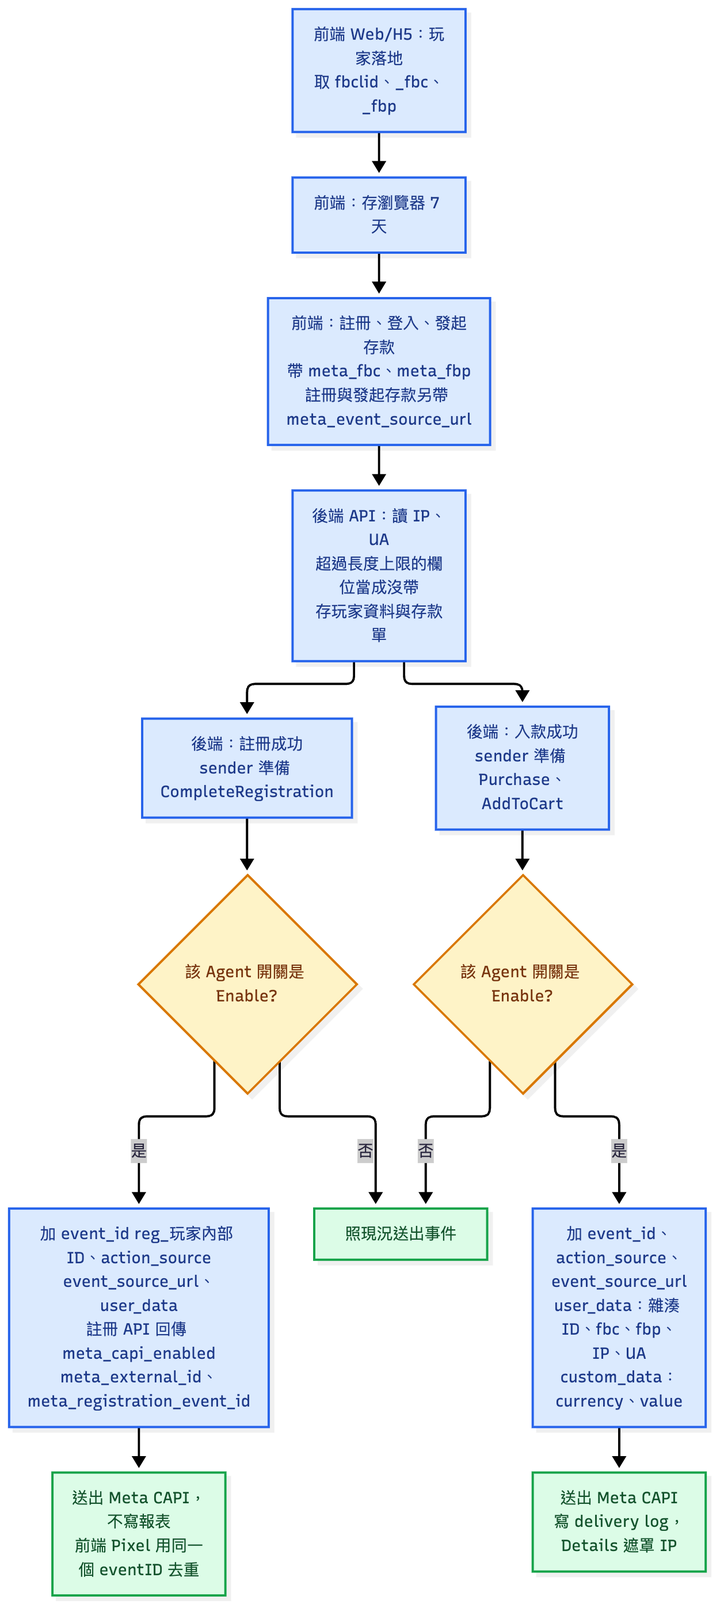
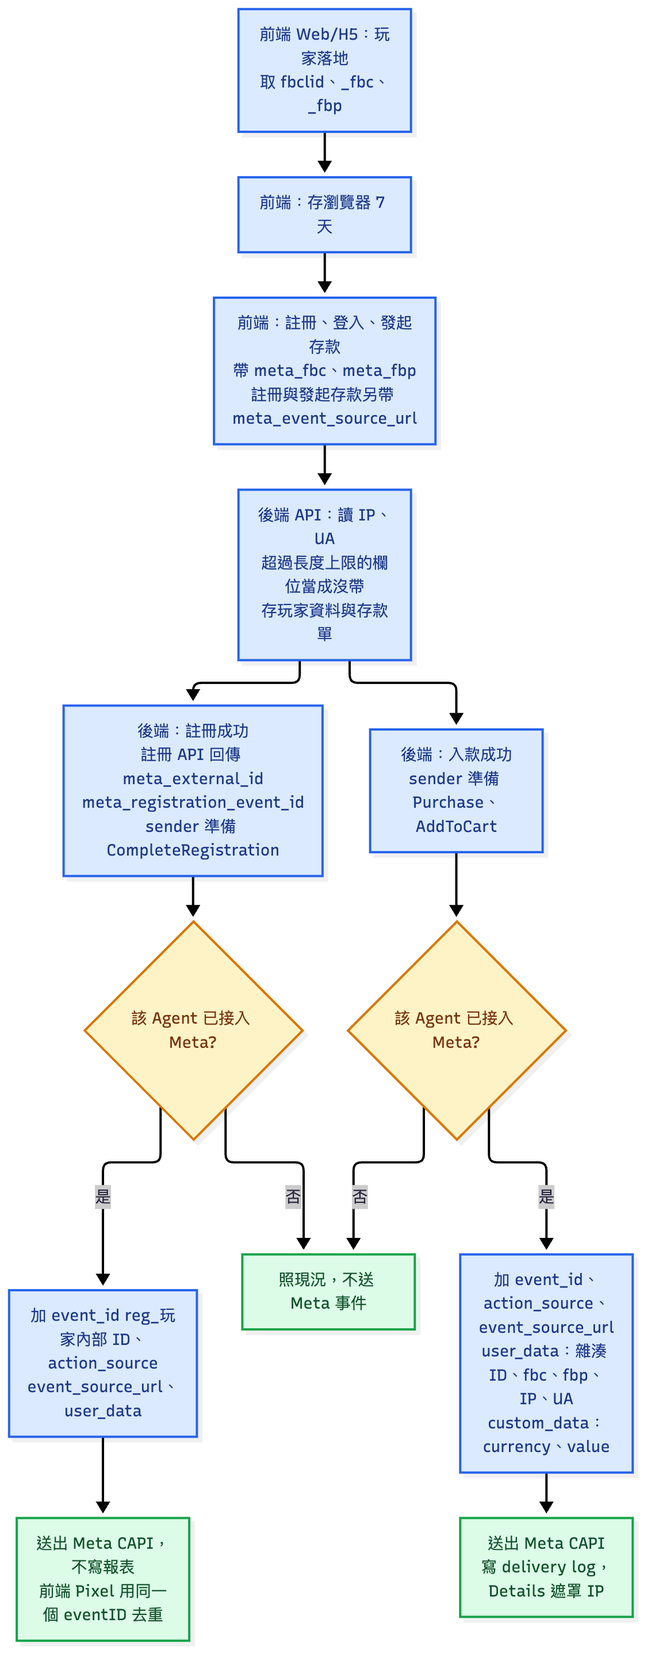
Remove Meta CAPI switch; apply to all Meta-connected agents (PRD v1.3)
Claude-Session: https://claude.ai/code/session_01MerFyJPRGjz7eYnmfumfX2

Changed region(s): [[0.0, 0.0, 0.9894, 0.9986]]

diff --git a/meta-capi-match-params/mockup.html b/meta-capi-match-params/mockup.html
@@ -3,7 +3,7 @@
 <head>
 <meta charset="utf-8">
 <meta name="viewport" content="width=device-width,initial-scale=1">
-<title>Meta CAPI Customer Matching — Mockup</title>
+<title>Meta CAPI Match Params — Mockup</title>
 <style>
 :root{--green:#319b00;--green2:#c7e9cf;--dark:#20252a;--bg:#efefef;--line:#e0e4e7;--muted:#747d85;--note:#fff8d8;--noteb:#efd16b;--notec:#5c4700}
 *{box-sizing:border-box}body{margin:0;background:var(--bg);font:13px Arial,sans-serif;color:#222}
@@ -20,7 +20,6 @@ h1{font-size:21px;margin:0 0 12px}.card{background:#fff;border-radius:6px;paddin
 .btn{border:1px solid #d5dbd5;background:#fff;border-radius:6px;padding:9px 15px;cursor:pointer}.save{background:var(--green);color:#fff;border:0;font-weight:700;min-width:120px}
 .rd{background:var(--note);border:1px dashed var(--noteb);color:var(--notec);border-radius:6px;padding:8px 10px;font-size:12px;line-height:1.6;margin-top:6px}
 .rd b{color:#3d2f00}body.hide-rd .rd{display:none}
-.toast{position:fixed;right:18px;bottom:18px;background:#20252a;color:#fff;padding:10px 14px;border-radius:6px;display:none}.toast.show{display:block}
 table{border-collapse:collapse;width:100%;min-width:900px}th{background:var(--green2);color:#2d7445;padding:11px 12px;text-align:left;white-space:nowrap}td{padding:12px;border-bottom:1px solid #edf0f2;white-space:nowrap}.scroll{overflow:auto}
 .num{text-align:right;font-family:monospace}.pill{padding:4px 9px;border-radius:12px;font-size:11px;font-weight:700;background:#d9f6e2;color:#087a30}.view{border:1px solid #45a92c;color:#318b19;background:#fff;border-radius:5px;padding:5px 9px;cursor:pointer}
 .modal{position:fixed;inset:0;background:#0008;display:none;align-items:center;justify-content:center;padding:18px}.modal.show{display:flex}.box{background:#fff;border-radius:9px;width:min(720px,100%);max-height:90vh;overflow:auto}.mhead{background:var(--green);color:#fff;padding:15px 18px;display:flex;justify-content:space-between;font-weight:700}.mbody{padding:18px}.mbody h3{margin:0 0 8px}
@@ -37,8 +36,7 @@ pre{background:#20252a;color:#d7f7dc;padding:14px;border-radius:6px;overflow:aut
 <div class="shell">
 <aside class="side"><div class="logo">◉ BET<b>ALLY</b></div>
   <div id="menuAdmin">
-  <div class="group active" data-go="agent">Agent-Setting　⌄</div><div class="item" id="mAgent">Agent Accounts</div>
-  <div class="group active" data-go="report">System Report　⌄</div><div class="item" id="mReport" style="background:transparent;color:#bdc4ca">Marketing Event Delivery Report</div>
+  <div class="group active" data-go="report">System Report　⌄</div><div class="item" id="mReport">Marketing Event Delivery Report</div>
   </div>
   <div id="menuAg" style="display:none">
   <div class="group">System Info</div><div class="group">Player Management　›</div>
@@ -50,8 +48,7 @@ pre{background:#20252a;color:#d7f7dc;padding:14px;border-radius:6px;overflow:aut
 <div class="top"><span>17:15, 27 Oct, 2026 · GMT+07:00</span><span id="who">Admin</span></div>
 <div class="content">
   <div class="mockbar"><b>Mockup view：</b>
-    <button class="tab on" id="tAgent">Admin BO · Agent Accounts › Edit</button>
-    <button class="tab" id="tReport">Admin BO · Marketing Event Delivery Report</button>
+    <button class="tab on" id="tReport">Admin BO · Marketing Event Delivery Report</button>
     <button class="tab" id="tReportAg">Agent BO · Marketing Event Delivery Report</button>
     <button class="tab" id="tGloss">名詞與欄位來源（RD 參考）</button>
     <button class="tab" id="tFe">前端任務（RD 參考）</button>
@@ -59,55 +56,28 @@ pre{background:#20252a;color:#d7f7dc;padding:14px;border-radius:6px;overflow:aut
     <label><input type="checkbox" id="rdToggle" checked> RD 註記</label>
     <span>此列只供驗收切換，不屬於正式 BO UI。</span></div>
 
-  <!-- View 1：Agent Accounts › Edit › System Config -->
-  <section class="view-pane on" id="vAgent">
-    <div class="crumb">Agent-Setting › Agent Accounts › Edit</div>
-    <h1>Edit Agent · <span id="agName">AG001</span></h1>
-    <div class="card">
-      <div class="sect">System Config</div>
-      <div class="ghost">⋯⋯ 既有 System Config 欄位（本圖省略）⋯⋯</div>
-      <div class="rd">本頁既有欄位未畫出，畫面只示意新增欄位。新增欄位放在 <b>System Config</b> 區塊內，位置由後端（API）RD 依既有排版決定。</div>
-      <div class="row">
-        <label for="capi">Meta CAPI Customer Matching<span class="pill-new">NEW</span></label>
-        <div>
-          <select id="capi"><option value="DENY">Deny</option><option value="ENABLE" selected>Enable</option></select>
-          <div class="rd">
-            <b>型別</b>：enum <code>Enable</code>／<code>Deny</code>，必填。<b>預設</b>：<code>Deny</code>（新建 Agent 與既有 Agent 上線時都是 <code>Deny</code>）。本畫面示意 AG001 已改成 <code>Enable</code>，與報表頁的示意資料一致。<br>
-            <b>層級</b>：每個 Agent 各自設定。<b>誰能改</b>：沿用本頁既有的編輯權限。<br>
-            Agent BO 不顯示此欄位。<br>Agent BO 帳號直接呼叫設定 API 修改此欄位時，後端不接受。<br>
-            <code>Enable</code>：sender 送出的 <code>Purchase</code>、<code>AddToCart</code>、<code>CompleteRegistration</code> 加比對參數；前台 Pixel 帶 <code>external_id</code>。<br>
-            <code>Deny</code>：sender 送出的事件與現況完全相同；前台 Pixel 不帶 <code>external_id</code>。<br>
-            兩個值下，前端都照常收集比對參數。<br>兩個值下，後端都照常保存比對參數。<br>改成 <code>Enable</code> 後，sender 之後送出的事件使用已保存的值。
-          </div>
-        </div>
-      </div>
-      <div class="ghost">⋯⋯ 既有 System Config 欄位（本圖省略）⋯⋯</div>
-      <div style="text-align:center;margin-top:12px"><button class="btn save" id="save">Save</button></div>
-    </div>
-  </section>
-
-  <!-- View 2：Marketing Event Delivery Report -->
-  <section class="view-pane" id="vReport">
+  <!-- View 1：Marketing Event Delivery Report -->
+  <section class="view-pane on" id="vReport">
     <h1>Marketing Event Delivery Report</h1>
-    <div class="rd">本頁篩選、欄位、匯出都不變；只有 Meta <code>Purchase</code>、<code>AddToCart</code> 的 Details 多出新欄位。下列資料為示意：AG001 開關為 <code>Enable</code>，AG002 為 <code>Deny</code>。</div>
+    <div class="rd">本頁篩選、欄位、匯出都不變；只有 Meta <code>Purchase</code>、<code>AddToCart</code> 的 Details 多出新欄位。下列資料為示意：AG001 已接入 Meta，Web／H5 發起的事件帶新欄位。AG002 已接入 Meta，示意列是 App 發起的存款，事件維持現況。</div>
     <div class="card" style="padding:0;margin-top:10px"><div class="scroll"><table>
       <thead><tr><th>Sent Date</th><th>Prefix</th><th>Username</th><th>Provider</th><th>User Behavior</th><th>Provider Event</th><th>Status</th><th>Amount</th><th>Transaction ID</th><th>Details</th></tr></thead>
       <tbody id="rows"></tbody></table></div></div>
   </section>
 
-  <!-- View 2b：Agent BO 的 Marketing Event Delivery Report -->
+  <!-- View 1b：Agent BO 的 Marketing Event Delivery Report -->
   <section class="view-pane" id="vReportAg">
     <h1>Marketing Event Delivery Report</h1>
     <div style="color:#6b7280;font-size:13px">Agent view · AG001</div>
     <div class="rd">Agent BO 版的篩選、欄位、匯出都不變（不顯示 Prefix 篩選）。後端只回傳登入 Agent 自己的資料，本例只有 AG001 的列。<br>
       Agent BO 與 Admin BO 的 Details 顯示相同的新增欄位。<br>Agent BO 的 Details 同樣把 <code>client_ip_address</code> 顯示為 <code>***</code>。<br>
-      Agent BO 看不到 <code>Meta CAPI Customer Matching</code> 開關，只看得到開關為 <code>Enable</code> 時送出的新增欄位。</div>
+      本案不新增 Agent BO 設定畫面。</div>
     <div class="card" style="padding:0;margin-top:10px"><div class="scroll"><table>
       <thead><tr><th>Sent Date</th><th>Prefix</th><th>Username</th><th>Provider</th><th>User Behavior</th><th>Provider Event</th><th>Status</th><th>Amount</th><th>Transaction ID</th><th>Details</th></tr></thead>
       <tbody id="rowsAg"></tbody></table></div></div>
   </section>
 
-  <!-- View 3：名詞與欄位來源（RD 參考頁，不屬於正式 BO UI） -->
+  <!-- View 2：名詞與欄位來源（RD 參考頁，不屬於正式 BO UI） -->
   <section class="view-pane gloss" id="vGloss">
     <h1>名詞與欄位來源</h1>
     <div class="note-top">本頁是給 RD 的參考說明，不屬於正式 BO 畫面。</div>
@@ -119,7 +89,7 @@ pre{background:#20252a;color:#d7f7dc;padding:14px;border-radius:6px;overflow:aut
         <tbody>
           <tr><td>Meta Pixel</td><td>裝在前台網頁的 Meta 追蹤程式碼</td><td>從瀏覽器把事件送給 Meta</td></tr>
           <tr><td>CAPI（Conversions API）</td><td>後端呼叫的 Meta API</td><td>從伺服器把事件送給 Meta</td></tr>
-          <tr><td>前台網域</td><td>BA032 玩家使用的前台網站網域，有多個且會變動</td><td>前端不寫死前台網域</td></tr>
+          <tr><td>前台網域</td><td>玩家使用的前台網站網域。一個 Agent 可以有多個，而且會變動</td><td>前端不寫死前台網域</td></tr>
           <tr><td>PWA 網域</td><td>玩家安裝的 PWA 所在網域</td><td>廣告點擊經 tracker link 從這裡轉到前台網域</td></tr>
           <tr><td>sender</td><td>後端送出 CAPI 事件的程式</td><td>入款成功、註冊成功時組 payload 並送出</td></tr>
           <tr><td><code>fbclid</code></td><td>玩家點 Facebook 廣告時，Meta 加在網址上的參數，例如 <code>?fbclid=IwAR2xYz</code></td><td>代表一次廣告點擊</td></tr>
@@ -131,20 +101,17 @@ pre{background:#20252a;color:#d7f7dc;padding:14px;border-radius:6px;overflow:aut
           <tr><td><code>client_user_agent</code></td><td>玩家瀏覽器的 User-Agent</td><td>Meta 用它輔助比對玩家</td></tr>
           <tr><td><code>event_source_url</code></td><td>事件發生時玩家所在頁面的完整網址</td><td>Meta 用它判斷事件發生的頁面。本案沒有值時，sender 不帶這個欄位，事件照送</td></tr>
           <tr><td><code>event_id</code></td><td>事件的唯一編號</td><td>Pixel 與 CAPI 送同一事件時，Meta 用它去重</td></tr>
-          <tr><td><code>action_source</code></td><td>事件發生的來源</td><td>Meta 用它區分網站、App 等來源。本案開關 <code>Enable</code> 時，sender 送 <code>website</code></td></tr>
+          <tr><td><code>action_source</code></td><td>事件發生的來源</td><td>Meta 用它區分網站、App 等來源。本案 Web／H5 發起的事件，sender 送 <code>website</code></td></tr>
           <tr><td>比對參數</td><td><code>fbc</code>、<code>fbp</code>、<code>client_ip_address</code>、<code>client_user_agent</code> 四個欄位的合稱</td><td>sender 放進 <code>user_data</code></td></tr>
           <tr><td><code>meta_match</code></td><td>前端存在 <code>localStorage</code> 的 key</td><td>保存 <code>fbc</code>、<code>fbp</code>，期限 7 天</td></tr>
+          <tr><td>已接入 Meta 的 Agent</td><td>Agent BO <code>System Config</code> 已設定 <code>Meta Access Token</code> 的 Agent</td><td>sender 只對這些 Agent 送 Meta 事件。本案套用到所有已接入 Meta 的 Agent</td></tr>
         </tbody></table></div>
     </div>
 
     <div class="card">
       <div class="sect">2. BO 欄位表：每個欄位怎麼取得</div>
-      <h3 class="gh">2.1 Admin BO 設定</h3>
-      <div class="scroll"><table class="gt">
-        <thead><tr><th>欄位</th><th>怎麼取得</th><th>負責端</th></tr></thead>
-        <tbody>
-          <tr><td><code>Meta CAPI Customer Matching</code></td><td>Admin 在 <code>Agent Accounts › Edit › System Config</code> 選 <code>Enable</code> 或 <code>Deny</code>。預設 <code>Deny</code></td><td>後端（API）</td></tr>
-        </tbody></table></div>
+      <h3 class="gh">2.1 BO 設定</h3>
+      <div class="gnote">本案不新增設定欄位。Admin BO 與 Agent BO 的設定畫面都不變。</div>
 
       <h3 class="gh">2.2 前端送給後端的 request 欄位</h3>
       <div class="scroll"><table class="gt">
@@ -179,7 +146,7 @@ pre{background:#20252a;color:#d7f7dc;padding:14px;border-radius:6px;overflow:aut
         前端照原樣使用 <code>fbclid</code>，不改大小寫，除了 URL decode 不做其他處理。<br>
         前端不自行產生 <code>fbp</code>。<br>
         <code>localStorage</code> 無法讀寫時，前端把結果存在本頁記憶體。<br>
-        BA032 有多個前台網域，而且會變動。前端不寫死前台網域。<br>
+        一個 Agent 可以有多個前台網域，而且會變動。前端不寫死前台網域。<br>
         前端在當下頁面的 origin 讀寫 <code>meta_match</code>。<br>
         前端從當下頁面的 <code>document.cookie</code> 讀取 <code>_fbc</code>、<code>_fbp</code> cookie。<br>
         前端不另外讀取 PWA 網域與 tracker link 網域上的 cookie。<br>
@@ -217,9 +184,8 @@ pre{background:#20252a;color:#d7f7dc;padding:14px;border-radius:6px;overflow:aut
       <div class="scroll"><table class="gt">
         <thead><tr><th>欄位</th><th>型別</th><th>必填</th><th>怎麼取得</th><th>哪些 API 回傳</th><th>前端用途</th></tr></thead>
         <tbody>
-          <tr><td><code>meta_capi_enabled</code></td><td>boolean</td><td>是</td><td>後端查玩家所屬 Agent 的開關。<code>Enable</code> 時為 <code>true</code>，<code>Deny</code> 時為 <code>false</code></td><td>玩家資料、登入、註冊</td><td>前端用它決定 Pixel 帶不帶 <code>external_id</code>。註冊時，前端也用它決定 Pixel <code>CompleteRegistration</code> 是否帶 <code>eventID</code> 去重</td></tr>
-          <tr><td><code>meta_external_id</code></td><td>string，64 字小寫 16 進位</td><td>否</td><td>後端把玩家內部 ID 做 SHA-256，輸出小寫 16 進位字串。開關 <code>Deny</code> 時不回傳</td><td>玩家資料、登入、註冊</td><td>Pixel 帶上與 CAPI 相同的 <code>external_id</code>。前端不自行雜湊</td></tr>
-          <tr><td><code>meta_registration_event_id</code></td><td>string，格式 <code>reg_&lt;玩家內部 ID&gt;</code></td><td>否</td><td>後端組成 <code>reg_&lt;玩家內部 ID&gt;</code>。開關 <code>Deny</code> 時不回傳</td><td>註冊</td><td>當作 Pixel <code>CompleteRegistration</code> 的 <code>eventID</code>，與後端 CAPI 事件去重</td></tr>
+          <tr><td><code>meta_external_id</code></td><td>string，64 字小寫 16 進位</td><td>是</td><td>後端把玩家內部 ID 做 SHA-256，輸出小寫 16 進位字串。一律回傳</td><td>玩家資料、登入、註冊</td><td>Pixel 帶上與 CAPI 相同的 <code>external_id</code>。前端不自行雜湊</td></tr>
+          <tr><td><code>meta_registration_event_id</code></td><td>string，格式 <code>reg_&lt;玩家內部 ID&gt;</code></td><td>是</td><td>後端組成 <code>reg_&lt;玩家內部 ID&gt;</code>。註冊成功時一律回傳</td><td>註冊</td><td>當作 Pixel <code>CompleteRegistration</code> 的 <code>eventID</code>，與後端 CAPI 事件去重</td></tr>
         </tbody></table></div>
     </div>
 
@@ -231,10 +197,10 @@ pre{background:#20252a;color:#d7f7dc;padding:14px;border-radius:6px;overflow:aut
         <li>玩家發起存款。前端帶 <code>meta_fbc</code>、<code>meta_fbp</code>、<code>meta_event_source_url</code>。</li>
         <li>後端從 request 讀取 IP 與 User-Agent。</li>
         <li>後端把 <code>fbc</code>、<code>fbp</code>、IP、User-Agent、<code>event_source_url</code> 記在存款單上。</li>
-        <li>入款成功。開關 <code>Deny</code> 時，sender 送出的事件與現況完全相同，流程結束。</li>
-        <li>開關 <code>Enable</code> 時，sender 照下表取值，加進 CAPI payload 後送出事件。</li>
-        <li>開關 <code>Enable</code> 時，<code>Marketing Event Delivery Report</code> 的 Details 顯示 sender 實際送出的新增欄位。sender 沒有帶的欄位，Details 不顯示。</li>
-        <li>開關 <code>Enable</code> 時，後端把 <code>client_ip_address</code> 加進遮罩清單。Details 把 <code>client_ip_address</code> 顯示為 <code>***</code>。</li>
+        <li>入款成功。Agent 沒有接入 Meta 時，sender 照現況不送 Meta 事件，流程結束。</li>
+        <li>Agent 已接入 Meta 時，sender 照下表取值，加進 CAPI payload 後送出事件。</li>
+        <li><code>Marketing Event Delivery Report</code> 的 Details 顯示 sender 實際送出的新增欄位。sender 沒有帶的欄位，Details 不顯示。</li>
+        <li>後端把 <code>client_ip_address</code> 加進遮罩清單。Details 把 <code>client_ip_address</code> 顯示為 <code>***</code>。</li>
       </ol>
       <div class="scroll"><table class="gt" style="margin-top:10px">
         <thead><tr><th>CAPI 欄位</th><th>值</th><th>取值順序</th></tr></thead>
@@ -251,7 +217,7 @@ pre{background:#20252a;color:#d7f7dc;padding:14px;border-radius:6px;overflow:aut
     </div>
   </section>
 
-  <!-- View 4：前端任務（RD 參考頁，不屬於正式 BO UI） -->
+  <!-- View 3：前端任務（RD 參考頁，不屬於正式 BO UI） -->
   <section class="view-pane gloss" id="vFe">
     <h1>前端任務：Web/H5</h1>
     <div class="note-top">本頁列出前端（Web/H5）RD 的全部任務，不屬於正式 BO 畫面。欄位定義見「名詞與欄位來源」頁。</div>
@@ -297,7 +263,7 @@ pre{background:#20252a;color:#d7f7dc;padding:14px;border-radius:6px;overflow:aut
           <tr><td>F6</td><td>前端組 request 前再檢查一次 <code>ts</code>。已過期的參數，前端不帶。</td></tr>
           <tr><td>F7</td><td><code>meta_match</code> 沒有某個值時，前端不帶該欄位，不送空字串。</td></tr>
           <tr><td>F8</td><td>註冊與發起存款時，前端把 <code>meta_event_source_url</code> 設為玩家當下所在頁面的完整網址。</td></tr>
-          <tr><td>F9</td><td>不論開關是 <code>Enable</code> 或 <code>Deny</code>，前端都照本節送出。</td></tr>
+          <tr><td>F9</td><td>不論 Agent 是否已接入 Meta，前端都照本節送出。</td></tr>
           <tr><td>F10</td><td>前端不送 IP 與 User-Agent。</td></tr>
         </tbody></table></div>
     </div>
@@ -307,17 +273,16 @@ pre{background:#20252a;color:#d7f7dc;padding:14px;border-radius:6px;overflow:aut
       <div class="scroll"><table class="gt">
         <thead><tr><th>情境</th><th>前端對 Pixel 使用者資料的動作</th></tr></thead>
         <tbody>
-          <tr><td>API 回傳 <code>meta_capi_enabled</code> 為 <code>true</code></td><td>設為該回傳的 <code>meta_external_id</code></td></tr>
-          <tr><td>API 回傳 <code>meta_capi_enabled</code> 為 <code>false</code></td><td>移除 <code>external_id</code></td></tr>
+          <tr><td>API 回傳 <code>meta_external_id</code></td><td>設為該回傳的 <code>meta_external_id</code></td></tr>
           <tr><td>登出</td><td>移除 <code>external_id</code></td></tr>
-          <tr><td>換成另一位玩家登入</td><td>依該玩家的登入回傳，照第一、二列處理</td></tr>
+          <tr><td>換成另一位玩家登入</td><td>設為該玩家登入回傳的 <code>meta_external_id</code></td></tr>
         </tbody></table></div>
       <div class="scroll"><table class="gt">
         <thead><tr><th>#</th><th>任務</th></tr></thead>
         <tbody>
-          <tr><td>F11</td><td>玩家已登入且 <code>meta_capi_enabled</code> 為 <code>true</code> 時，前端初始化 Pixel 帶上 <code>external_id</code>，值為 <code>meta_external_id</code>。</td></tr>
+          <tr><td>F11</td><td>玩家已登入時，前端初始化 Pixel 帶上 <code>external_id</code>，值為 <code>meta_external_id</code>。</td></tr>
           <tr><td>F12</td><td>玩家未登入時，前端初始化 Pixel 不帶 <code>external_id</code>。</td></tr>
-          <tr><td>F13</td><td><code>meta_capi_enabled</code> 為 <code>false</code> 時，前端初始化 Pixel 不帶 <code>external_id</code>。</td></tr>
+          <tr><td>F13</td><td><code>external_id</code> 的值來自 API 回傳的 <code>meta_external_id</code>。</td></tr>
           <tr><td>F14</td><td>上表的 API 指登入、註冊、玩家資料三支 API。</td></tr>
           <tr><td>F15</td><td>F11 到 F13 與上表適用於 <code>PageView</code>、<code>CompleteRegistration</code>、<code>Lead</code> 三個 Pixel 事件。</td></tr>
           <tr><td>F16</td><td>前端不自行雜湊 <code>external_id</code>。</td></tr>
@@ -330,29 +295,27 @@ pre{background:#20252a;color:#d7f7dc;padding:14px;border-radius:6px;overflow:aut
     <div class="card">
       <div class="sect">5. Pixel <code>CompleteRegistration</code> 去重</div>
       <ol class="flow">
-        <li>註冊成功時，前端讀取註冊 API 回傳的 <code>meta_capi_enabled</code>。</li>
-        <li><code>meta_capi_enabled</code> 為 <code>false</code> 時，前端照現況送 Pixel <code>CompleteRegistration</code>，流程結束。</li>
-        <li><code>meta_capi_enabled</code> 為 <code>true</code> 時，前端用回傳的 <code>meta_external_id</code> 更新 Pixel 使用者資料。</li>
+        <li>註冊成功時，前端用註冊 API 回傳的 <code>meta_external_id</code> 更新 Pixel 使用者資料。</li>
         <li>前端送 Pixel <code>CompleteRegistration</code>，<code>eventID</code> 用回傳的 <code>meta_registration_event_id</code>。</li>
       </ol>
       <div class="gnote">前端只送一次 Pixel <code>CompleteRegistration</code>。後端用同一個 <code>event_id</code>，Meta 以此去重。</div>
     </div>
   </section>
 
-  <!-- View 5：後端任務（RD 參考頁，不屬於正式 BO UI） -->
+  <!-- View 4：後端任務（RD 參考頁，不屬於正式 BO UI） -->
   <section class="view-pane gloss" id="vBe">
     <h1>後端任務：API</h1>
     <div class="note-top">本頁列出後端（API）RD 的全部任務，不屬於正式 BO 畫面。欄位定義見「名詞與欄位來源」頁。</div>
 
     <div class="card">
-      <div class="sect">1. 開關</div>
+      <div class="sect">1. 適用範圍</div>
       <div class="scroll"><table class="gt">
         <thead><tr><th>#</th><th>任務</th></tr></thead>
         <tbody>
-          <tr><td>B1</td><td>後端在 Agent 設定新增欄位 <code>Meta CAPI Customer Matching</code>，值為 <code>Enable</code>、<code>Deny</code>，預設 <code>Deny</code>。</td></tr>
-          <tr><td>B2</td><td>Admin BO <code>Agent Accounts</code> › <code>Edit</code> › <code>System Config</code> 新增開關畫面。畫面見「Admin BO · Agent Accounts › Edit」分頁。</td></tr>
-          <tr><td>B3</td><td>Agent BO 不顯示這個開關。</td></tr>
-          <tr><td>B4</td><td>Agent BO 帳號呼叫設定 API 修改這個開關時，後端不接受。</td></tr>
+          <tr><td>B1</td><td>所有已接入 Meta 的 Agent 都套用本頁任務，不限 BA032。</td></tr>
+          <tr><td>B2</td><td>Agent 沒有接入 Meta 時，sender 照現況不送 Meta 事件。</td></tr>
+          <tr><td>B3</td><td>本案不新增設定欄位。Admin BO 與 Agent BO 的設定畫面都不變。</td></tr>
+          <tr><td>B4</td><td>Agent 之後才接入 Meta 時，sender 送出的事件使用已保存的比對參數。</td></tr>
         </tbody></table></div>
     </div>
 
@@ -398,7 +361,7 @@ pre{background:#20252a;color:#d7f7dc;padding:14px;border-radius:6px;overflow:aut
           <tr><td><code>event_source_url</code></td><td><code>VARCHAR(2048)</code></td><td><code>meta_event_source_url</code></td></tr>
         </tbody></table></div>
       <div class="gnote">request 沒有某個值時，存款單的該欄位為 NULL。欄位名稱由後端 RD 依既有命名決定；型別照上表。<br>
-        不論開關是 <code>Enable</code> 或 <code>Deny</code>，後端都保存比對參數。</div>
+        不論 Agent 是否已接入 Meta，後端都保存比對參數。</div>
     </div>
 
     <div class="card">
@@ -406,18 +369,17 @@ pre{background:#20252a;color:#d7f7dc;padding:14px;border-radius:6px;overflow:aut
       <div class="scroll"><table class="gt">
         <thead><tr><th>欄位</th><th>型別</th><th>玩家資料</th><th>登入成功</th><th>註冊成功</th></tr></thead>
         <tbody>
-          <tr><td><code>meta_capi_enabled</code></td><td>boolean</td><td>一律回</td><td>一律回</td><td>一律回</td></tr>
-          <tr><td><code>meta_external_id</code></td><td>string</td><td>開關 <code>Enable</code> 時回</td><td>開關 <code>Enable</code> 時回</td><td>開關 <code>Enable</code> 時回</td></tr>
-          <tr><td><code>meta_registration_event_id</code></td><td>string</td><td>不回</td><td>不回</td><td>開關 <code>Enable</code> 時回</td></tr>
+          <tr><td><code>meta_external_id</code></td><td>string</td><td>一律回</td><td>一律回</td><td>一律回</td></tr>
+          <tr><td><code>meta_registration_event_id</code></td><td>string</td><td>不回</td><td>不回</td><td>一律回</td></tr>
         </tbody></table></div>
       <div class="scroll"><table class="gt">
         <thead><tr><th>#</th><th>任務</th></tr></thead>
         <tbody>
-          <tr><td>B10</td><td>玩家所屬 Agent 的開關為 <code>Enable</code> 時，後端回傳 <code>meta_capi_enabled</code> 為 <code>true</code>。開關為 <code>Deny</code> 時，後端回傳 <code>meta_capi_enabled</code> 為 <code>false</code>。</td></tr>
-          <tr><td>B11</td><td><code>meta_capi_enabled</code> 為 <code>false</code> 時，後端不回傳 <code>meta_external_id</code> 與 <code>meta_registration_event_id</code>。</td></tr>
+          <tr><td>B10</td><td>玩家資料、登入成功、註冊成功的 response 一律回傳 <code>meta_external_id</code>。</td></tr>
+          <tr><td>B11</td><td>不論 Agent 是否已接入 Meta，後端都回傳上表欄位。</td></tr>
           <tr><td>B12</td><td><code>meta_external_id</code> 是雜湊 ID：玩家內部 ID 的字串形式算 SHA-256，輸出小寫 16 進位字串。</td></tr>
           <tr><td>B13</td><td>後端在 sender 與各 API 使用同一個雜湊 ID 計算方式。</td></tr>
-          <tr><td>B14</td><td>開關為 <code>Enable</code> 且註冊成功時，後端回傳 <code>meta_registration_event_id</code>，值為 <code>reg_&lt;玩家內部 ID&gt;</code>。</td></tr>
+          <tr><td>B14</td><td>註冊成功時，後端回傳 <code>meta_registration_event_id</code>，值為 <code>reg_&lt;玩家內部 ID&gt;</code>。</td></tr>
         </tbody></table></div>
     </div>
 
@@ -426,8 +388,8 @@ pre{background:#20252a;color:#d7f7dc;padding:14px;border-radius:6px;overflow:aut
       <div class="scroll"><table class="gt">
         <thead><tr><th>#</th><th>任務</th></tr></thead>
         <tbody>
-          <tr><td>B15</td><td>開關為 <code>Deny</code> 時，sender 送出的事件與現況完全相同。</td></tr>
-          <tr><td>B16</td><td>開關為 <code>Enable</code> 時，sender 在 Web／H5 發起的 <code>Purchase</code>、<code>AddToCart</code>、<code>CompleteRegistration</code> 加上新增欄位。開關為 <code>Enable</code> 時，sender 對 App 發起的事件維持現況。</td></tr>
+          <tr><td>B15</td><td>sender 對 App 發起的事件維持現況。</td></tr>
+          <tr><td>B16</td><td>Agent 已接入 Meta 時，sender 在 Web／H5 發起的 <code>Purchase</code>、<code>AddToCart</code>、<code>CompleteRegistration</code> 加上新增欄位。</td></tr>
           <tr><td>B17</td><td>以下適用 <code>Purchase</code>、<code>AddToCart</code> 的 <code>fbc</code>、<code>fbp</code>、<code>client_ip_address</code>、<code>client_user_agent</code>。存款單的該欄位有值時，sender 使用存款單的值。存款單的該欄位沒有值時，sender 使用玩家資料的值。</td></tr>
           <tr><td>B18</td><td>sender 組 <code>Purchase</code>、<code>AddToCart</code> 的 <code>event_source_url</code> 時，只取存款單的值。</td></tr>
           <tr><td>B19</td><td>sender 不在 <code>CompleteRegistration</code> 帶 <code>custom_data.currency</code>、<code>custom_data.value</code>。</td></tr>
@@ -455,7 +417,7 @@ pre{background:#20252a;color:#d7f7dc;padding:14px;border-radius:6px;overflow:aut
       <div class="scroll"><table class="gt">
         <thead><tr><th>#</th><th>任務</th></tr></thead>
         <tbody>
-          <tr><td>B24</td><td>開關為 <code>Enable</code> 時，<code>Purchase</code>、<code>AddToCart</code> 的 Details 顯示 sender 實際送出的新增欄位。開關為 <code>Enable</code> 且 sender 沒有帶某個欄位時，Details 不顯示該欄位。</td></tr>
+          <tr><td>B24</td><td><code>Purchase</code>、<code>AddToCart</code> 的 Details 顯示 sender 實際送出的新增欄位。sender 沒有帶某個欄位時，Details 不顯示該欄位。</td></tr>
           <tr><td>B25</td><td>後端把 <code>client_ip_address</code> 加進遮罩清單。Details 把 <code>client_ip_address</code> 顯示為 <code>***</code>。</td></tr>
           <tr><td>B26</td><td>Details 把 <code>external_id</code> 顯示為雜湊 ID。Details 把 <code>fbc</code>、<code>fbp</code>、<code>client_user_agent</code>、<code>event_source_url</code> 顯示原值。</td></tr>
           <tr><td>B27</td><td>Agent BO 與 Admin BO 的 Details 顯示相同。</td></tr>
@@ -473,7 +435,6 @@ pre{background:#20252a;color:#d7f7dc;padding:14px;border-radius:6px;overflow:aut
 </div>
 
 <div class="modal" id="modal"><div class="box"><div class="mhead"><span>Event Delivery Details</span><button class="btn" id="x">✕</button></div><div class="mbody" id="detail"></div><div class="mfoot"><button class="btn save" id="close">Close</button></div></div></div>
-<div class="toast" id="toast">Saved.</div>
 
 <script>
 const $=id=>document.getElementById(id);
@@ -482,15 +443,15 @@ const H3='6fe158d6ce513b111fa958f1cfa9537b7391792091058bf48e1169c7724bb4ac'; // 
[1 lines of base64/hex data omitted]
 const UA='Mozilla/5.0 (Linux; Android 14) AppleWebKit/537.36 Chrome/129.0 Mobile Safari/537.36';
 const data=[
- {date:'27/10/2026 15:42:18',prefix:'AG001',user:'demo_user01',behavior:'First Deposit',event:'Purchase',amount:'100.10',tx:'DEP261027000108',enabled:true,
+ {date:'27/10/2026 15:42:18',prefix:'AG001',user:'demo_user01',behavior:'First Deposit',event:'Purchase',amount:'100.10',tx:'DEP261027000108',
   props:{Username:'demo_user01',Amount:'100.10',Currency:'THB',Date:'2026-10-27 15:42:18',access_token:'***',
    event_id:'ftd_DEP261027000108',action_source:'website',event_source_url:'https://<前台網域>/deposit',external_id:H,
    fbc:'fb.1.1793070230123.AbC1',fbp:'fb.1.1793070100456.1234567890',client_ip_address:'***',client_user_agent:UA,currency:'THB',value:100.1}},
- {date:'27/10/2026 15:36:40',prefix:'AG001',user:'demo_user03',behavior:'Deposit',event:'AddToCart',amount:'500.00',tx:'DEP261027000105',enabled:true,
+ {date:'27/10/2026 15:36:40',prefix:'AG001',user:'demo_user03',behavior:'Deposit',event:'AddToCart',amount:'500.00',tx:'DEP261027000105',
   props:{Username:'demo_user03',Amount:'500.00',Currency:'THB',Date:'2026-10-27 15:36:40',access_token:'***',
    event_id:'dep_DEP261027000105',action_source:'website',event_source_url:'https://<前台網域>/deposit',external_id:H3,
    fbp:'fb.1.1793069500789.9876543210',client_ip_address:'***',client_user_agent:UA,currency:'THB',value:500}},
- {date:'27/10/2026 15:30:02',prefix:'AG002',user:'demo_user02',behavior:'Deposit',event:'AddToCart',amount:'250.00',tx:'DEP261027000102',enabled:false,
+ {date:'27/10/2026 15:30:02',prefix:'AG002',user:'demo_user02',behavior:'Deposit',app:true,event:'AddToCart',amount:'250.00',tx:'DEP261027000102',
   props:{Username:'demo_user02',Amount:'250.00',Currency:'THB',Date:'2026-10-27 15:30:02',access_token:'***'}}
 ];
 const NEW=['event_id','action_source','event_source_url','external_id','fbc','fbp','client_ip_address','client_user_agent','currency','value'];
@@ -501,25 +462,24 @@ function render(){$('rows').innerHTML=data.map(row).join('');
  document.querySelectorAll('.view').forEach(b=>b.onclick=()=>detail(+b.dataset.i))}
 function detail(i){const r=data[i];
  const lines=Object.entries(r.props).map(([k,v])=>{const t=`  "${k}": ${JSON.stringify(v)}`;return NEW.includes(k)?`<span class="nw">${esc(t)}</span>`:esc(t)});
- const note=r.enabled?
+ const note=!r.app?
   `<div class="rd">藍字是本案新增欄位（示意用色，正式畫面照既有樣式顯示，不另上色）。<br>
    <b>client_ip_address</b>：後端加進遮罩清單，一律顯示 <code>***</code>；送給 Meta 的值是原值。<br>
    <b>external_id</b>：顯示雜湊 ID（玩家內部 ID 的 SHA-256 小寫 16 進位字串）。<b>fbc</b>、<b>fbp</b>、<b>client_user_agent</b>、<b>event_source_url</b> 顯示原值，不可雜湊。<br>
    <b>value</b>：由 <code>DECIMAL(18,2)</code> 的入款金額轉成 JSON 數字，不經 float；這筆入款 ${r.amount}，送出 <code>${r.props.value}</code>。<br>
    存款單與玩家資料都沒有某個值時，sender 不帶該欄位，Details 也不顯示${r.props.fbc?'':'（這筆沒有 <code>fbc</code>）'}。</div>`:
-  `<div class="rd">AG002 開關為 <code>Deny</code>：sender 送出的事件與現況完全相同，Details 不出現新欄位。</div>`;
+  `<div class="rd">這筆是 App 發起的存款：sender 送出的事件與現況完全相同，Details 不出現新欄位。</div>`;
  $('detail').innerHTML=`<h3>Request Properties (Sensitive values masked)</h3><pre>{\n${lines.join(',\n')}\n}</pre>${note}`;
  $('modal').classList.add('show')}
 function close(){$('modal').classList.remove('show')}
-function go(v){const a=v==='agent',r=v==='report',ra=v==='reportAg',g=v==='gloss',fe=v==='fe',be=v==='be';
- $('vAgent').classList.toggle('on',a);$('vReport').classList.toggle('on',r);$('vReportAg').classList.toggle('on',ra);$('vGloss').classList.toggle('on',g);$('vFe').classList.toggle('on',fe);$('vBe').classList.toggle('on',be);
- $('tAgent').classList.toggle('on',a);$('tReport').classList.toggle('on',r);$('tReportAg').classList.toggle('on',ra);$('tGloss').classList.toggle('on',g);$('tFe').classList.toggle('on',fe);$('tBe').classList.toggle('on',be);
+function go(v){const r=v==='report',ra=v==='reportAg',g=v==='gloss',fe=v==='fe',be=v==='be';
+ $('vReport').classList.toggle('on',r);$('vReportAg').classList.toggle('on',ra);$('vGloss').classList.toggle('on',g);$('vFe').classList.toggle('on',fe);$('vBe').classList.toggle('on',be);
+ $('tReport').classList.toggle('on',r);$('tReportAg').classList.toggle('on',ra);$('tGloss').classList.toggle('on',g);$('tFe').classList.toggle('on',fe);$('tBe').classList.toggle('on',be);
  if(g||fe||be)return; // RD 參考頁不切換身分與側欄
  $('menuAdmin').style.display=ra?'none':'';$('menuAg').style.display=ra?'':'none';$('who').textContent=ra?'AG001':'Admin';
- $('mAgent').style.background=a?'#35aa00':'transparent';$('mAgent').style.color=a?'#fff':'#bdc4ca';$('mReport').style.background=r?'#35aa00':'transparent';$('mReport').style.color=r?'#fff':'#bdc4ca'}
-$('tAgent').onclick=()=>go('agent');$('tReport').onclick=()=>go('report');$('tReportAg').onclick=()=>go('reportAg');$('tGloss').onclick=()=>go('gloss');$('tFe').onclick=()=>go('fe');$('tBe').onclick=()=>go('be');$('mAgent').onclick=()=>go('agent');$('mReport').onclick=()=>go('report');
+ $('mReport').style.background=r?'#35aa00':'transparent';$('mReport').style.color=r?'#fff':'#bdc4ca'}
+$('tReport').onclick=()=>go('report');$('tReportAg').onclick=()=>go('reportAg');$('tGloss').onclick=()=>go('gloss');$('tFe').onclick=()=>go('fe');$('tBe').onclick=()=>go('be');$('mReport').onclick=()=>go('report');
 $('rdToggle').onchange=e=>document.body.classList.toggle('hide-rd',!e.target.checked);
-$('save').onclick=()=>{$('toast').classList.add('show');setTimeout(()=>$('toast').classList.remove('show'),1500)};
 $('x').onclick=close;$('close').onclick=close;$('modal').onclick=e=>{if(e.target===$('modal'))close()};
 render();
 </script>

diff --git a/meta-capi-match-params/README.md b/meta-capi-match-params/README.md
@@ -1,6 +1,6 @@
-# Meta CAPI 事件加帶比對參數（BA032）
+# Meta CAPI 事件加帶比對參數
 
-BA032 的 Meta `Purchase`、`AddToCart`、`CompleteRegistration` 事件加帶 `fbc`、`fbp`、`external_id`、IP、UA 等比對參數，以 Admin BO 的 Agent 層級開關 `Meta CAPI Customer Matching` 控制。只處理 Web／H5。
+所有已接入 Meta 的 Agent（含 BA032），Meta `Purchase`、`AddToCart`、`CompleteRegistration` 事件加帶 `fbc`、`fbp`、`external_id`、IP、UA 等比對參數。已接入 Meta＝Agent BO `System Config` 已設定 `Meta Access Token`。只處理 Web／H5。
 
 - [Mockup](https://guswei.github.io/betally-bo-mockup/meta-capi-match-params/mockup.html)
 - [PRD](https://github.com/guswei/betally-bo-mockup/blob/main/meta-capi-match-params/meta_capi_match_params_PRD.md)（開單用的 Textile 版以 Redmine 為準）
@@ -8,4 +8,4 @@ BA032 的 Meta `Purchase`、`AddToCart`、`CompleteRegistration` 事件加帶 `f
 - [Mermaid source](https://github.com/guswei/betally-bo-mockup/blob/main/meta-capi-match-params/meta_capi_match_params_flow.mmd)
 - [Rendered flow](https://github.com/guswei/betally-bo-mockup/blob/main/meta-capi-match-params/diagrams/meta_capi_match_params_flow.png)
 
-重點：前端落地時取得 `fbc`、`fbp` 並在瀏覽器保存 7 天，註冊、登入、發起存款時帶給後端；後端保存到玩家資料與存款單。開關 `Enable` 時 sender 帶上比對參數，`Deny` 時事件與現況完全相同。報表 Details 的 `client_ip_address` 顯示 `***`。
+重點：前端落地時取得 `fbc`、`fbp` 並在瀏覽器保存 7 天，註冊、登入、發起存款時帶給後端；後端保存到玩家資料與存款單。Agent 已接入 Meta 時，sender 帶上比對參數；沒接入的 Agent 照現況不送 Meta 事件；App 發起的事件與現況相同。報表 Details 的 `client_ip_address` 顯示 `***`。
